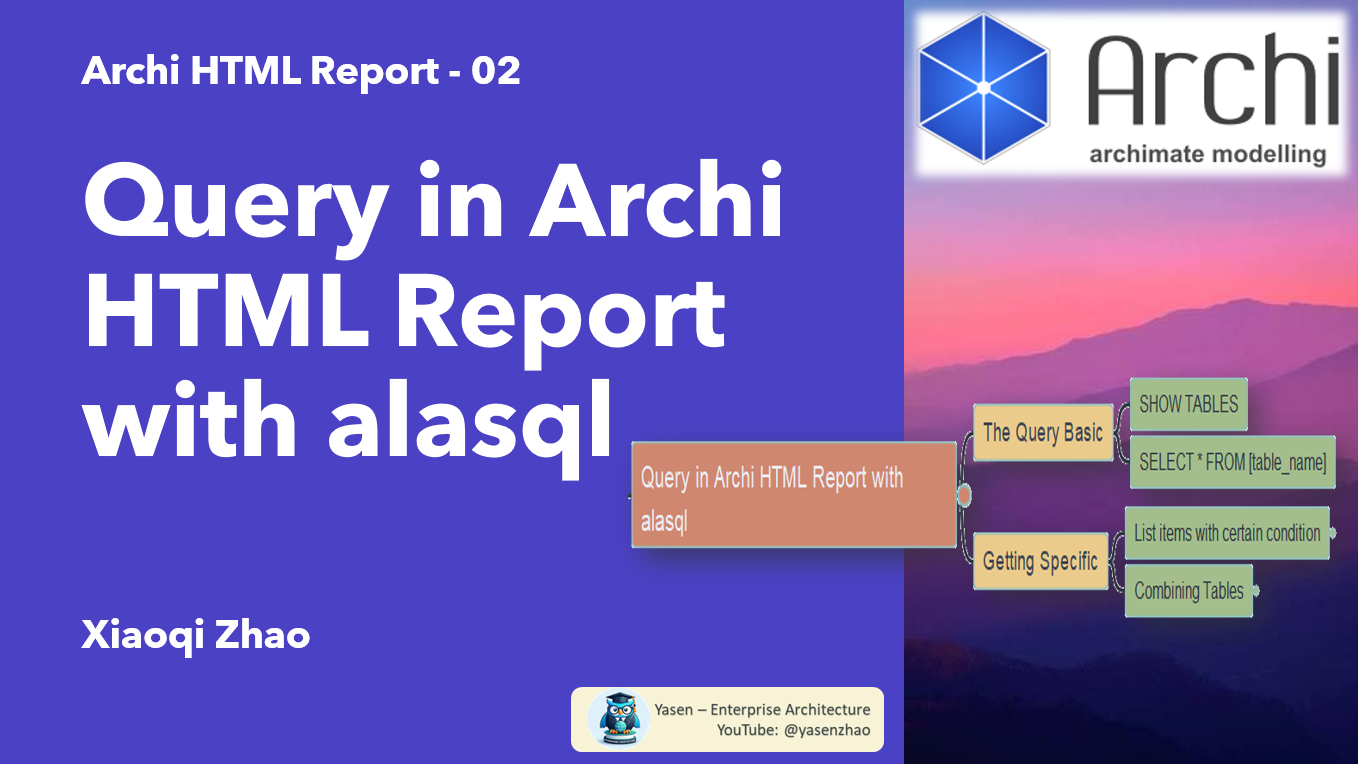
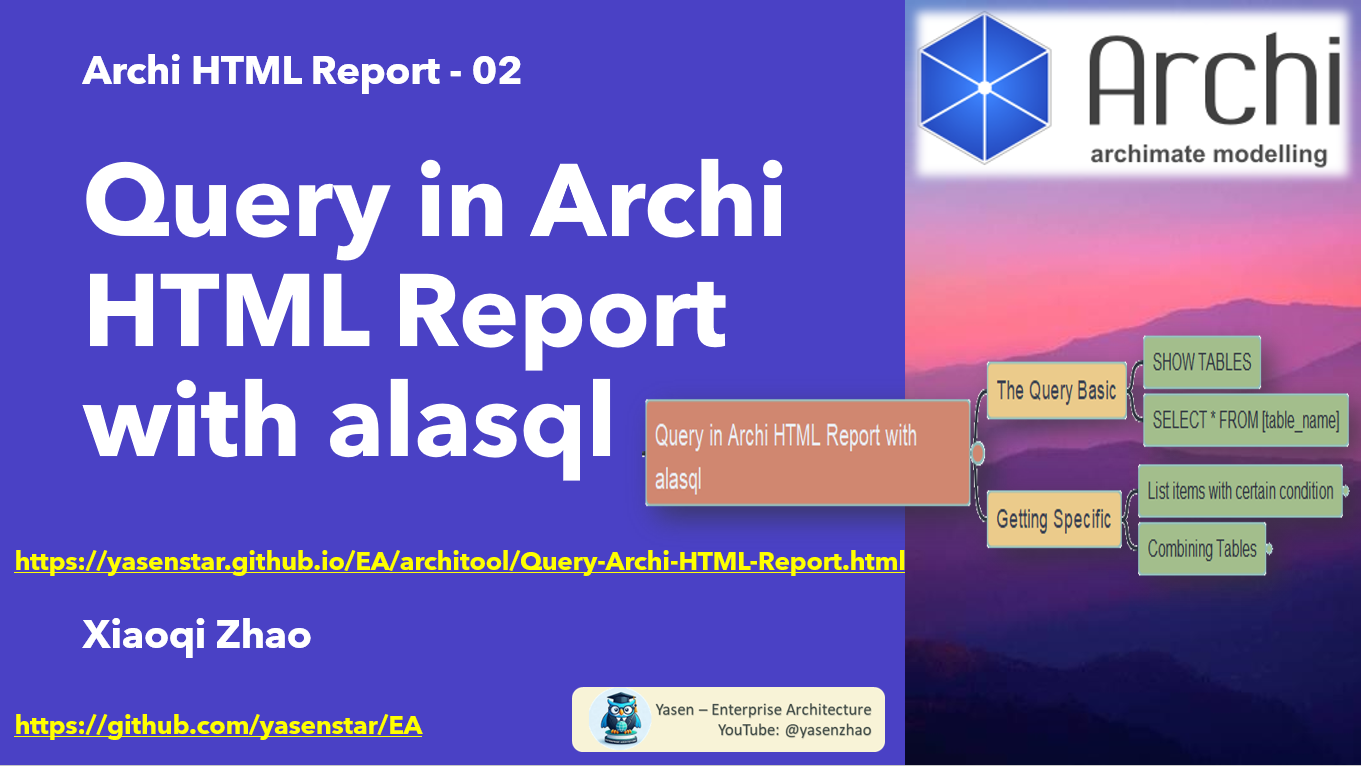
update

diff --git a/architool/Query-Archi-HTML-Report.md b/architool/Query-Archi-HTML-Report.md
@@ -21,7 +21,8 @@ The third tab is the SQL window - alasql
 - [AlaSQL GitHub Projects](https://github.com/AlaSQL)
 - [The AlaSQL Wiki in GitHub](https://github.com/AlaSQL/alasql/wiki)
 - [alasql wiki site](https://alasql-wiki.readthedocs.io/en/latest/readme.html)
-- [A nice article: Analysis of Archimate models using SQL queries](https://fightingcomputers.nl/Guides/Analysis-of-Archimate-model-using-SQL-queries)
+- [SQL Queries in the HTML Report in Archi GitHub](https://github.com/archimatetool/archi/wiki/SQL-queries-in-the-HTML-report)
+  - [A nice article: Analysis of Archimate models using SQL queries](https://fightingcomputers.nl/Guides/Analysis-of-Archimate-model-using-SQL-queries)
 
 ## Show TABLES of the HTML Report
 
